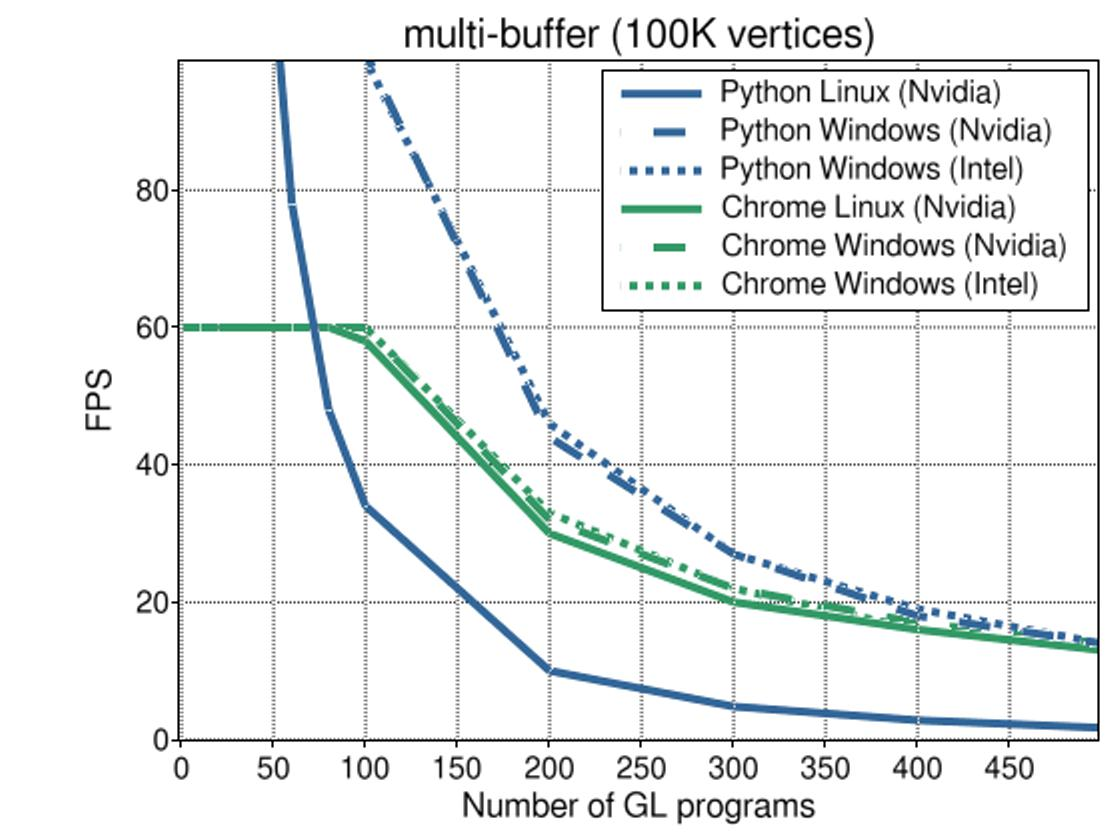
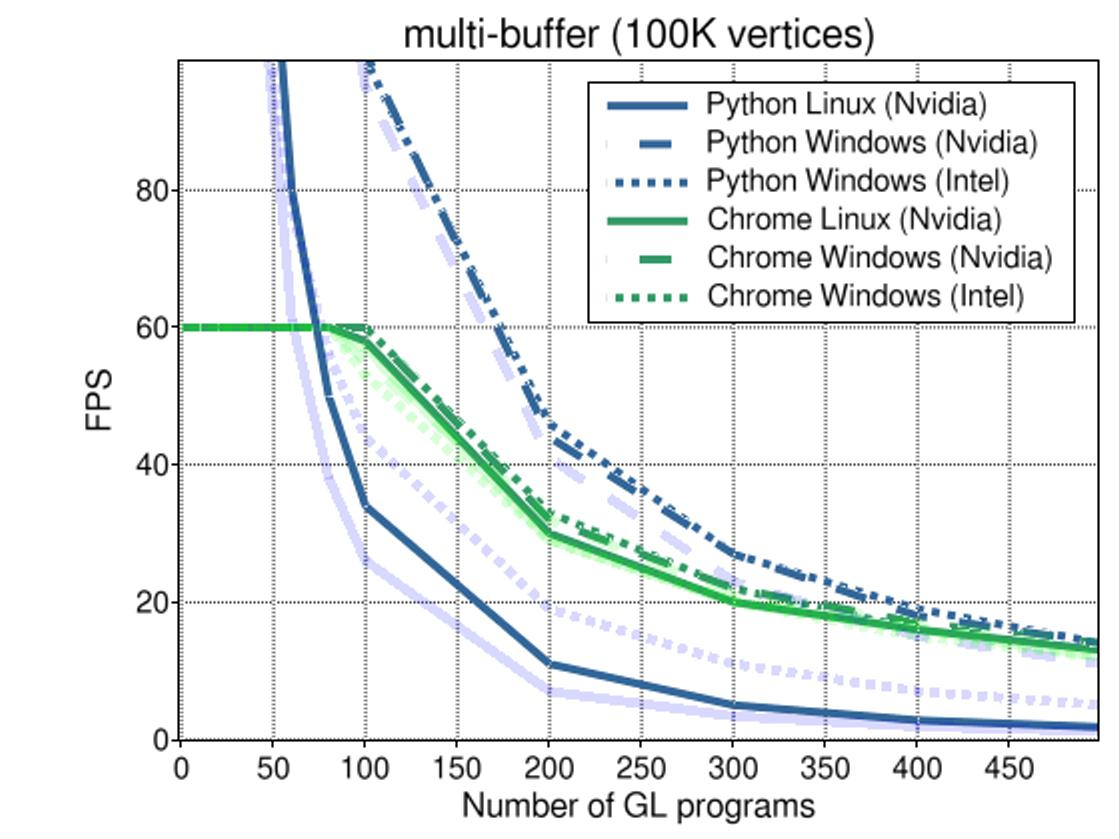
better 3d plot

diff --git a/benchmark_collections_vis.py b/benchmark_collections_vis.py
@@ -70,4 +70,15 @@ colors = [(0.2, 0.4, 0.6), (0.2, 0.4, 0.6), (0.2, 0.4, 0.6), (0.2, 0.6, 0.4), (0
 linestyles = '-', '--', ':', '-', '--', ':'
 plot('multi-buffer (100K vertices)', measurements_100k_buffer, colors, linestyles)
 
+# Draw ghosts
+colors = [(0, 0, 1), (0, 0, 1), (0, 0, 1), (0, 1, 0), (0, 1, 0), (0, 1, 0)]
+i = -1
+for key, d in measurements_100k.items():
+    if 'Firefox' in key:
+        continue
+    i +=1 
+    mm = list(sorted(d))
+    vv.plot(mm, [d[k] for k in mm], lw=4, lc=colors[i], ls=linestyles[i], alpha=0.15, axesAdjust=False)
+
+
 # vv.screenshot('benchmark_collections_resultX.jpg', bg='w')
